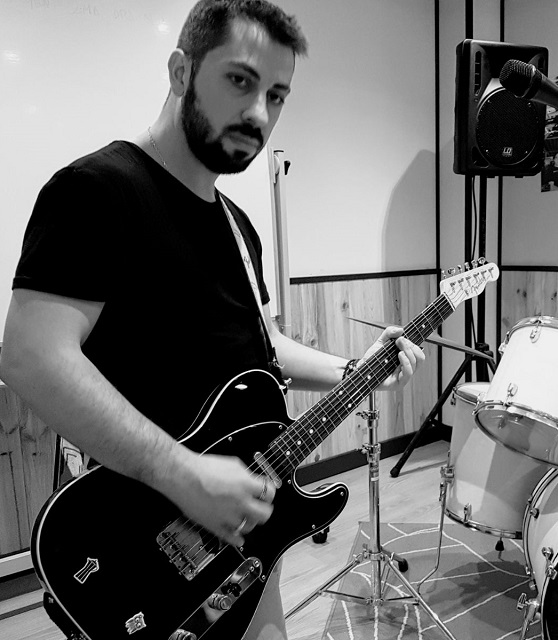
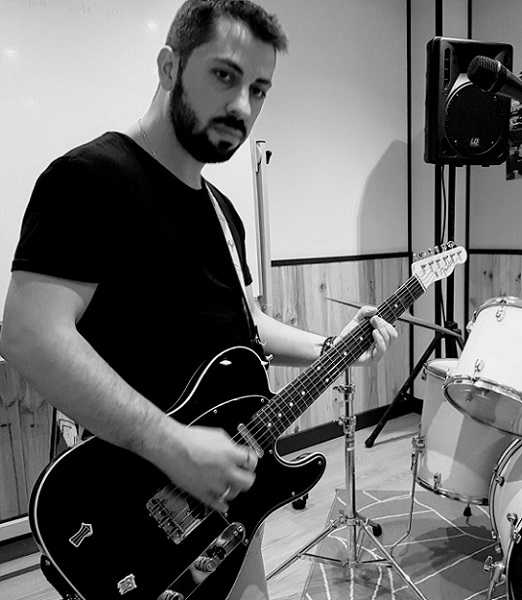
reemplazo de fotos

diff --git a/src/components/form/SectionContact.js b/src/components/form/SectionContact.js
@@ -6,7 +6,7 @@ const SectionContact = () => {
             <div className="contact-description">
                 <h1>Contacto</h1>
                     <br/>
-                    <p>Hola, si deseas que colaboremos juntos, puede ponerse en contacto conmigo desde el formulario o mis redes sociales.</p>
+                    <p> Si te gusta lo que hago, quieres pasar a saludar o crees que podemos colaborar escríbeme a traves del formulario para que nos pongamos en contacto.</p>
             </div>
             <div className="contact-form">
                 <Form/>

diff --git a/src/components/cover/Cover.js b/src/components/cover/Cover.js
@@ -6,7 +6,9 @@ import coverVideo from "../../media/coverVideo.mp4";
 const Cover = () => {
     return (
         <div className="cover-container">
-            <video className="video" src={coverVideo} autoPlay loop type="video/mp4" />       
+            <video  className="video" muted >
+              <source src={coverVideo} />
+            </video>  
             <h1>Rafael Portillo Pérez</h1>     
             <p>Músico | Guitarrista | Compositor | Productor</p>
         </div>

diff --git a/src/components/about/About.css b/src/components/about/About.css
@@ -2,7 +2,7 @@
     display: flex;
     background-color: white;
     color: black;
-    height: 70vh;
+    height: 100vh;
     padding: 100px 0 100px 0;
 }
 .about-desc {
@@ -27,6 +27,7 @@
     display: flex;
     align-self: center;
     overflow: hidden;
+    
 }
 @media screen and (max-width: 760px) {
     .about-container{
@@ -52,5 +53,6 @@
 
     .about-img > img{
         width: 100%;
+        object-fit: cover; 
     }
 }

diff --git a/src/components/form/Form.css b/src/components/form/Form.css
@@ -3,9 +3,9 @@
     display: flex;
     background-color: white;
     color: black;
-    height: 70vh;
+    height: 71vh;
     padding: 100px 0 100px 0;
-	margin-bottom: 20vh;
+	margin-bottom: 25vh;
 }
 
 .contact-description {
